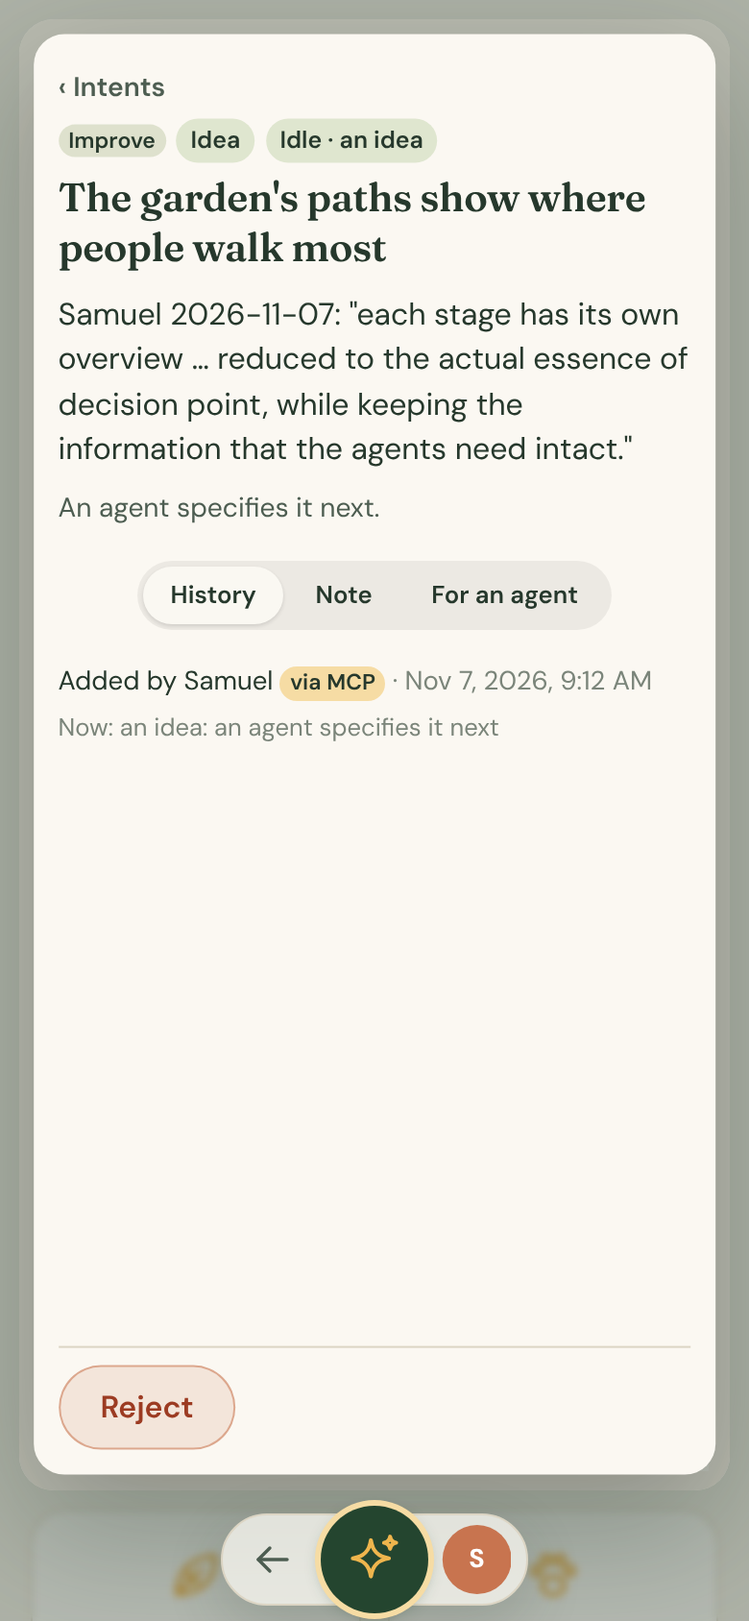
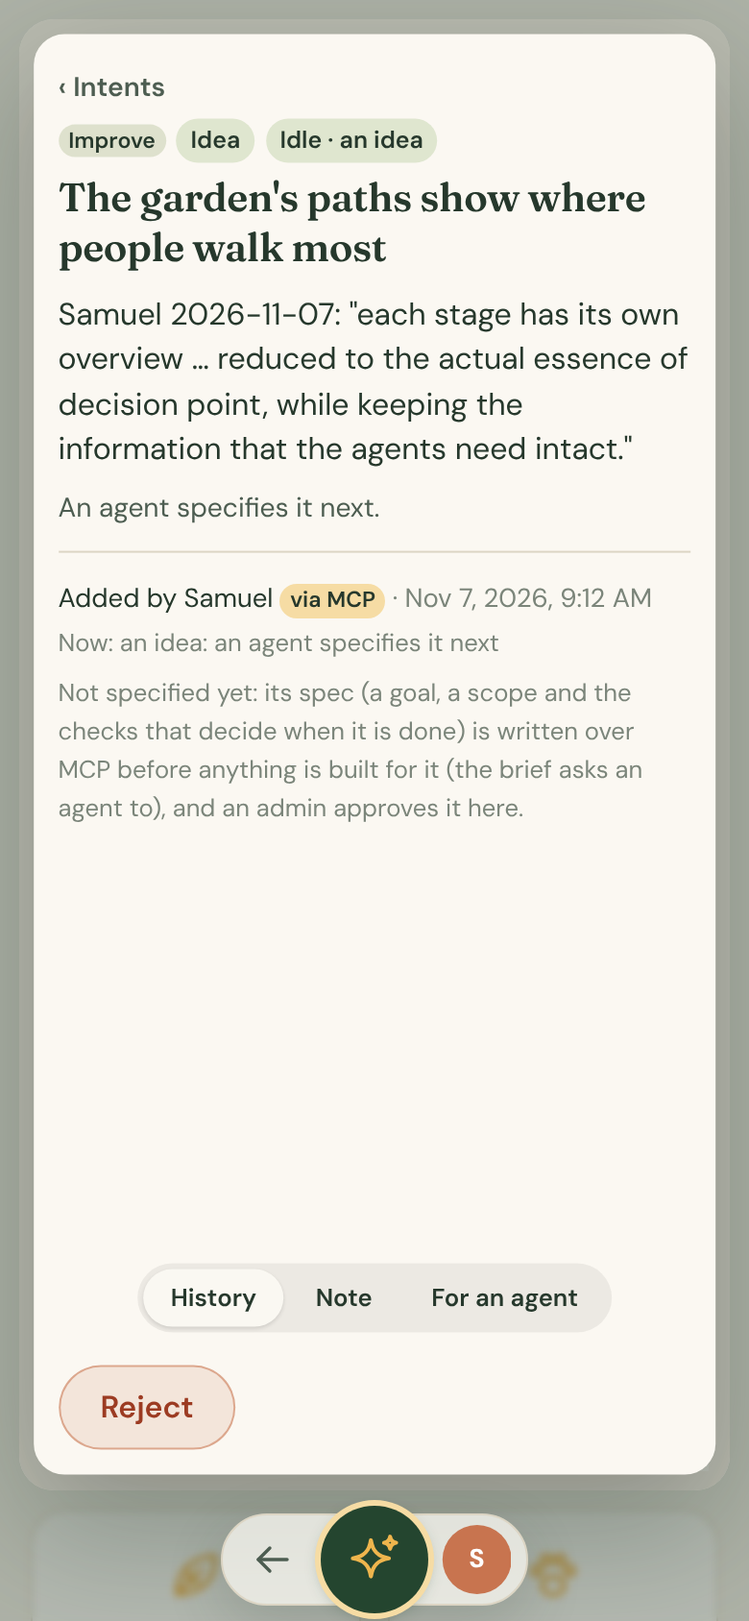
[bb3b0773] Tabs docked above the decision, checks read for a person, asset upgrades shot
Samuel's look at the shots (2026-11-07, through the orchestrator):
- The tab bar is docked to the bottom, right above the decision, at every width; the top
  stays and the open tab's content scrolls between them (play/SPEC.md §4.12 says so).
- The Checks tab is a card per check: its statement, Passed / Not yet / Failed with its
  reason in a line, and when; how it was checked (how and by, run, output, where) folds
  behind "How it was checked". Steps read "First, what it removes" / "Then, what it
  delivers"; the top says "Checks passed: n of m required".
- Fixtures and shots for asset upgrades at Proposal (Olive v3, the delivery van v3),
  drawn in the asset box from play's own files (read-only routes with the token).

Intent: bb3b0773-b4f4-4128-bcc1-b076674e3531

Claude-Session: https://claude.ai/code/session_01E9zxn5HXsSoeteAwvHhhFo

diff --git a/play/site/src/lib/site/intents/IntentDetail.svelte b/play/site/src/lib/site/intents/IntentDetail.svelte
@@ -108,24 +108,39 @@
 			copyError = 'The brief could not be copied here: select it and copy it by hand.';
 		}
 	}
+	/** a failed check's reason in one line: the first line of its evidence that is not a command, plainly */
+	const failLine = (e: string) => {
+		const line = (e ?? '').replace(/\u001b\[[0-9;]*m/g, '').split('\n').map((l) => l.trim()).find((l) => l && !l.startsWith('$') && !/^exit \d/.test(l)) ?? '';
+		return line.length > 140 ? `${line.slice(0, 140)}…` : line;
+	};
 	const refused = $derived(error || copyError || briefError);
 </script>
 
-{#snippet chips(list: { id: string; must: boolean; state: 'pass' | 'fail' | 'none' }[])}
-	<span class="chips">{#each list as c (c.id)}<span class="chk" class:pass={c.state === 'pass'} class:fail={c.state === 'fail'} class:nice={!c.must} title={c.must ? 'must' : 'nice to have'}>{c.state === 'pass' ? '✓' : c.state === 'fail' ? '✗' : '·'} {c.id}</span>{/each}</span>
+{#snippet chips(list: { id: string; must: boolean; state: 'pass' | 'fail' | 'none'; text?: string }[])}
+	<span class="chips">{#each list as c (c.id)}<span class="chk" class:pass={c.state === 'pass'} class:fail={c.state === 'fail'} class:nice={!c.must} title="{c.text ?? c.id}: {c.state === 'pass' ? 'passed' : c.state === 'fail' ? 'failed' : 'not yet'}{c.must ? '' : ' (nice to have)'}">{c.state === 'pass' ? '✓' : c.state === 'fail' ? '✗' : '·'} {c.id}</span>{/each}</span>
 {/snippet}
 
+<!-- a check, for a person (Samuel 2026-11-07: "the audience is always a human, never a tech guy"): its statement and its
+     result in plain words; how it was checked (its how and by, its run, the tool's output, where it ran) folded away -->
 {#snippet checkList(list: Check[])}
 	<ol class="checks">
 		{#each list as c (c.id)}
 			{@const r = i.results?.[c.id]}
 			<li class:pass={r?.pass === true} class:fail={r?.pass === false}>
-				<span class="mark" title={r ? (r.pass ? 'Passed' : 'Failed') : 'No result yet'}>{r ? (r.pass ? '✓' : '✗') : '·'}</span>
+				<span class="mark" aria-hidden="true">{r ? (r.pass ? '✓' : '✗') : '·'}</span>
 				<div class="what">
-					<p><span class="cid">{c.id}</span> {c.check}{#if !c.must}{' '}<span class="pill nice" title="Nice to have: it does not hold the proposal back">nice</span>{/if}</p>
-					<p class="muted small"><span class="how">{c.how}</span> · {c.by}</p>
-					{#if c.run}<code class="run" title="Its run: the command that decides it in avenBOX, and on main once merged">{c.run}</code>{/if}
-					{#if r}<p class="evidence small"><span class="where" class:main={r.where === 'main'} title={r.where === 'main' ? 'Run on main after the merge' : 'Run in avenBOX'}>{whereOf(r)}</span>{' '}{r.evidence}{#if r.by}{' '}<span class="muted">· {r.by}, {shortWhen(r.at)}</span>{/if}</p>{/if}
+					<p class="statement">{c.check}</p>
+					<p class="result">
+						{#if !r}<strong>Not yet</strong>{:else if r.pass}<strong>Passed</strong>{:else}<strong>Failed</strong>{#if failLine(r.evidence)}: {failLine(r.evidence)}{/if}{/if}
+						{#if r}<span class="muted"> · {shortWhen(r.at)}</span>{/if}
+						<span class="muted"> · {c.must ? 'must pass' : 'nice to have'}</span>
+					</p>
+					<details class="how-checked">
+						<summary>How it was checked</summary>
+						<p class="small"><span class="cid">{c.id}</span> <span class="how">{c.how}</span> · {c.by}</p>
+						{#if c.run}<code class="run" title="Its run: the command that decides it in avenBOX, and on main once merged">{c.run}</code>{/if}
+						{#if r}<p class="evidence small"><span class="where" class:main={r.where === 'main'} title={r.where === 'main' ? 'Run on main after the merge' : 'Run in avenBOX'}>{whereOf(r)}</span>{' '}{r.evidence}{#if r.by}{' '}<span class="muted">· {r.by}, {shortWhen(r.at)}</span>{/if}</p>{/if}
+					</details>
 				</div>
 			</li>
 		{/each}
@@ -155,7 +170,7 @@
 				{:else if p.part === 'deps'}
 					<p class="row"><span class="label">Depends on</span> {#each p.deps as dep, j (dep.id)}{j ? ', ' : ''}<button class="link" onclick={() => onopenintent(dep.id)}>{dep.title}</button> <span class="muted">({STAGE_NAME[dep.stage]})</span>{/each}{#if p.held}{' '}<span class="held-tag">Held</span>{/if}</p>
 				{:else if p.part === 'progress'}
-					<p class="row"><span class="label">{p.label}</span> <strong>{p.passed} of {p.of}</strong> {@render chips(p.chips)}</p>
+					<p class="row"><span class="label">{p.label}</span> <strong>{p.passed} of {p.of}</strong> required {@render chips(p.chips)}</p>
 				{:else if p.part === 'work'}
 					<p class="row"><span class="label">{p.label}</span>
 						{#if p.pr}<a href="{REPO_URL}/pull/{p.pr}" target="_blank" rel="noopener">{p.text}</a>
@@ -170,14 +185,6 @@
 			{/each}
 		</section>
 
-		<!-- the rest, kept whole in tabs; a tab with nothing in it is not shown -->
-		<div class="band">
-			<div class="tabs" role="tablist" aria-label="More of it">
-				{#each d.tabs as t (t)}
-					<button role="tab" aria-selected={current === t} class:on={current === t} onclick={() => (tab = t)}>{TAB_NAME[t]}</button>
-				{/each}
-			</div>
-		</div>
 
 		<div class="panel" role="tabpanel" aria-label={TAB_NAME[current]}>
 			{#if current === 'spec' && i.spec}
@@ -186,18 +193,18 @@
 				<div class="md">{@html md(i.spec.goal)}</div>
 				<h3>Scope</h3>
 				<div class="md">{@html md(i.spec.scope)}</div>
-				<h3>Reduce <span class="muted small">what it removes, simplifies or compacts first</span></h3>
+				<h3>First, what it removes</h3>
 				{#if i.spec.checks.some((c) => c.step === 'reduce')}<p class="small">{i.spec.checks.filter((c) => c.step === 'reduce').map((c) => c.id).join(', ')}: in Checks.</p>
 				{:else if i.spec.nothing_to_reduce}<p class="small"><span class="muted">Nothing to reduce:</span> {i.spec.nothing_to_reduce}</p>
 				{:else}<p class="muted small">Specified before the reduce step: none named.</p>{/if}
-				<h3>MVP</h3>
+				<h3>Then, what it delivers</h3>
 				<p class="small">{i.spec.checks.filter((c) => c.step !== 'reduce').map((c) => c.id).join(', ') || 'No checks.'}{i.spec.checks.some((c) => c.step !== 'reduce') ? ': in Checks.' : ''}</p>
 			{:else if current === 'checks' && i.spec}
 				{@const reduce = i.spec.checks.filter((c) => c.step === 'reduce')}
 				{@const mvp = i.spec.checks.filter((c) => c.step !== 'reduce')}
 				<p class="muted small">{i.stage === 'specify' ? 'What will be checked, once approved.' : 'Once every must check passes, it moves to Proposal by itself.'}</p>
-				{#if reduce.length}<h3>Reduce</h3>{@render checkList(reduce)}{/if}
-				{#if mvp.length}<h3>MVP</h3>{@render checkList(mvp)}{/if}
+				{#if reduce.length}<h3>First, what it removes</h3>{@render checkList(reduce)}{/if}
+				{#if mvp.length}<h3>Then, what it delivers</h3>{@render checkList(mvp)}{/if}
 			{:else if current === 'changes'}
 				{#if !i.work && i.pull_request}<p class="small">Code: <a href="{REPO_URL}/pull/{i.pull_request}" target="_blank" rel="noopener">pull request #{i.pull_request}</a> <span class="muted">· {i.stage === 'proposal' ? 'Accept merges it into main and ships it' : i.stage === 'ship' ? (i.ship?.pending ? 'in Ship, merged in its turn' : 'merged, on its way to production') : i.stage === 'accepted' ? 'in production' : 'named by its agent'}</span></p>
 				{:else if i.work}
@@ -289,6 +296,14 @@
 				<button class="btn small ghost" onclick={() => copyBrief(briefText)}>{copied ? 'Copied' : 'Copy the brief'}</button>
 			{/if}
 		</div>
+		<!-- the rest, kept whole in tabs; a tab with nothing in it is not shown -->
+		<div class="band">
+			<div class="tabs" role="tablist" aria-label="More of it">
+				{#each d.tabs as t (t)}
+					<button role="tab" aria-selected={current === t} class:on={current === t} onclick={() => (tab = t)}>{TAB_NAME[t]}</button>
+				{/each}
+			</div>
+		</div>
 	</div>
 
 	<!-- a refused decision's reason at the foot, right above the buttons (Samuel 2026-11-06) -->
@@ -313,7 +328,7 @@
 	/* an intent opened: a panel in the middle of the screen over a scrim; its header and its decision stay, what is
 	   between them scrolls, the tabs sticky at its top */
 	.scrim { all: unset; position: absolute; inset: 0; z-index: 9; border-radius: inherit; background: rgb(38 56 44 / 0.28); }
-	.review { position: absolute; z-index: 10; top: 50%; left: 50%; transform: translate(-50%, -50%); width: min(48rem, calc(100% - 1rem)); max-height: calc(100% - 1rem); box-sizing: border-box; background: var(--bg, #fbf8f2); border-radius: 16px; box-shadow: 0 20px 60px rgb(0 0 0 / 0.25); display: flex; flex-direction: column; gap: 0.5rem; padding: 1rem 1.1rem 0.8rem; overflow: hidden; }
+	.review { position: absolute; z-index: 10; top: 50%; left: 50%; transform: translate(-50%, -50%); width: min(48rem, calc(100% - 1rem)); height: min(46rem, calc(100% - 1rem)); box-sizing: border-box; background: var(--bg, #fbf8f2); border-radius: 16px; box-shadow: 0 20px 60px rgb(0 0 0 / 0.25); display: flex; flex-direction: column; gap: 0.5rem; padding: 1rem 1.1rem 0.8rem; overflow: hidden; }
 	@media (max-width: 520px) { .review { padding: 0.8rem 0.8rem 0.7rem; height: calc(100% - 1rem); } }
 	.review-head { flex: 0 0 auto; min-width: 0; }
 	.review-head h2 { margin: 0; font-size: 1.3rem; line-height: 1.25; }
@@ -324,7 +339,12 @@
 	.tags { margin: 0 0 0.3rem; display: flex; gap: 0.35rem; align-items: center; white-space: nowrap; min-width: 0; }
 	.tags [data-sub] { min-width: 0; overflow: hidden; text-overflow: ellipsis; }
 	.tags [data-sub]::first-letter { text-transform: uppercase; }
-	.item-body { flex: 1 1 auto; min-height: 0; overflow-y: auto; overscroll-behavior: contain; }
+	/* between the header and the foot: the top stays, the tab's content scrolls, and the tabs are docked at the bottom
+	   right above the decision, always in sight (Samuel 2026-11-07: "bottom align above the action button areas the
+	   tab section, so it's always like fixed to the bottom area") */
+	.item-body { flex: 1 1 auto; min-height: 0; display: flex; flex-direction: column; }
+	.item-body > .top { flex: 0 1 auto; max-height: 55%; overflow-y: auto; overscroll-behavior: contain; }
+	.panel { flex: 1 1 auto; min-height: 5rem; overflow-y: auto; overscroll-behavior: contain; border-top: 1px solid var(--line, #dcd5c4); }
 
 	/* the top: the stage's parts, short lines, nothing an agent alone needs */
 	.top { display: flex; flex-direction: column; gap: 0.55rem; padding: 0.15rem 0 0.8rem; font-size: 0.95rem; line-height: 1.45; }
@@ -353,13 +373,13 @@
 
 	/* the tabs' band, sticky at the top of what scrolls, in the aside's style (play/SPEC.md §4.15 One aside); on a
 	   narrow screen it scrolls sideways */
-	.band { position: sticky; top: 0; z-index: 1; margin: 0 -0.2rem; padding: 0.3rem 0.2rem 0.45rem; background: var(--bg, #fbf8f2); overflow-x: auto; scrollbar-width: none; text-align: center; }
+	.band { flex: 0 0 auto; margin: 0 -0.2rem; padding: 0.45rem 0.2rem 0.1rem; background: var(--bg, #fbf8f2); overflow-x: auto; scrollbar-width: none; text-align: center; }
 	.band::-webkit-scrollbar { display: none; }
 	.tabs { display: inline-flex; gap: 2px; padding: 3px; border-radius: 999px; background: rgb(0 0 0 / 0.06); white-space: nowrap; }
 	.tabs button { font: inherit; color: inherit; border: 0; cursor: pointer; flex: 0 0 auto; padding: 0.32rem 0.9rem; border-radius: 999px; background: none; font-size: 0.8rem; font-weight: 600; }
 	.tabs button.on { background: var(--paper, #fff); box-shadow: 0 1px 2px rgb(0 0 0 / 0.12); }
 	.tabs button:focus-visible { outline: 2px solid var(--ink, #222); outline-offset: -2px; }
-	.panel { padding: 0.4rem 0 0.6rem; font-size: 0.9rem; }
+	.panel { padding: 0.6rem 0 0.6rem; font-size: 0.9rem; }
 	.panel h3 { margin: 0.8rem 0 0.35rem; font-size: 0.95rem; }
 	.panel h3:first-child { margin-top: 0.2rem; }
 	.panel > p { margin: 0 0 0.4rem; }
@@ -429,6 +449,14 @@
 	.checks .what { min-width: 0; flex: 1 1 auto; }
 	.checks .what p { margin: 0; font-size: 0.88rem; overflow-wrap: anywhere; }
 	.checks .what p + p { margin-top: 0.15rem; }
+	.checks .statement { font-size: 0.92rem; line-height: 1.4; }
+	.checks .result { font-size: 0.84rem; }
+	.checks li.pass .result strong { color: var(--brand-green, #24452f); }
+	.checks li.fail .result strong { color: #9c3b22; }
+	.how-checked { margin-top: 0.3rem; font-size: 0.8rem; }
+	.how-checked summary { cursor: pointer; width: fit-content; color: var(--ink-soft, #4d5d51); font-weight: 600; min-height: 1.6rem; display: flex; align-items: center; }
+	.how-checked[open] { padding: 0.4rem 0.5rem; margin-inline: -0.5rem; border-radius: 8px; background: var(--paper, #f6f1e6); }
+	.how-checked p { margin: 0.2rem 0 0; }
 	.cid { font-family: ui-monospace, monospace; font-size: 0.76rem; color: var(--muted, #777); margin-right: 0.15rem; }
 	.how { font-weight: 600; text-transform: uppercase; font-size: 0.7rem; letter-spacing: 0.04em; }
 	.evidence { white-space: pre-line; color: var(--ink-soft, #4d5d51); }
@@ -447,7 +475,7 @@
 	/* the foot: a refused decision's reason, then Reject and the one decision, primary, its reason under it if it is
 	   disabled */
 	.refused { flex: 0 0 auto; margin: 0; padding: 0.45rem 0.7rem; border-radius: 10px; font-size: 0.85rem; line-height: 1.4; max-height: 5.6em; overflow-y: auto; overflow-wrap: anywhere; color: #9c3b22; background: color-mix(in srgb, var(--terracotta, #c8744f) 12%, var(--card, #fff)); border: 1px solid color-mix(in srgb, var(--terracotta, #c8744f) 45%, transparent); }
-	.decide { flex: 0 0 auto; padding: 0.6rem 0 0.1rem; border-top: 1px solid var(--line, #dcd5c4); }
+	.decide { flex: 0 0 auto; padding: 0.5rem 0 0.1rem; }
 	.buttons { display: flex; justify-content: flex-end; align-items: center; gap: 0.5rem; }
 	.decide .btn { min-height: 44px; justify-content: center; }
 	.btn.primary { flex: 0 1 15rem; }

diff --git a/play/site/src/lib/site/intents/fixtures.ts b/play/site/src/lib/site/intents/fixtures.ts
@@ -71,6 +71,13 @@ const STEPS = (red = false) => [
 ];
 const WORK = { kind: 'asset_version', what: 'asset', doc: 'asset:44444444-5555-4666-8777-888888888888', doc_variant: 3, docs: 2, asset_id: '44444444-5555-4666-8777-888888888888', label: 'Olive tree', grp: 'plants', slug: null, version_label: null, number: 4, status: 'proposal', note: 'Its bark furrows with age.', author: 'Samuel', decided_by: null, created: at(11), via: 'mcp' as const };
 
+/** asset upgrades at Proposal, on real accepted versions of play's (their recipes drawn by the shots from play's files):
+ *  the olive's v3 on its v2, and the delivery van's v3 (four paints) on its v2 */
+export const ASSETS = {
[2 lines of base64/hex data omitted]
+} as const;
+
 export const FIXTURES: Record<string, Intent> = {
 	idea: base(1, { title: "The garden's paths show where people walk most", stage: 'idea', sub: { state: 'idle', tag: 'an idea', why: 'an idea: an agent specifies it next' } }),
 	specify: base(2, { stage: 'specify', ...specified, depends_on: [DEP], sub: { state: 'waiting', tag: 'Approve spec', why: 'waits for Approve spec' } }),
@@ -78,7 +85,7 @@ export const FIXTURES: Record<string, Intent> = {
 	'build-held': base(4, { title: "Sandbox 2's pond fills with rain over a season", stage: 'build', ...approved, depends_on: [DEP], held_by: [DEP], sub: { state: 'idle', tag: 'held', why: `held: waits for ${DEP.title}` } }),
 	'build-failed': base(5, { title: 'The Library finds a file by its label', stage: 'build', ...approved, results: res(['c2'], ['c1']), pull_request: 2150, pr_seen: { pr: 2150, draft: false, state: 'open' }, sub: { state: 'failed', tag: 'c1 failed', why: 'c1 failed on its last run' } }),
 	'proposal-code': base(6, { title: 'Members invite a friend with one link', stage: 'proposal', ...approved, results: res(['c1', 'c2', 'c3', 'c4', 'c5']), pull_request: 2150, pr_seen: { pr: 2150, draft: false, state: 'open', mergeable: true }, sub: { state: 'waiting', tag: 'Accept and ship', why: 'waits for Accept and ship' } }),
-	'proposal-work': base(7, { stage: 'proposal', ...approved, title: 'The olive tree\'s bark furrows with age', results: res(['c1', 'c2', 'c3', 'c4', 'c5']), work: WORK, sub: { state: 'waiting', tag: 'Accept', why: 'waits for Accept' } }),
+	'proposal-work': base(7, { stage: 'proposal', ...approved, spec: { ...SPEC, goal: 'The olive tree\'s bark furrows and twists with age, as old Picual trunks in Jaén do.' }, title: 'The olive tree\'s bark furrows with age', results: res(['c1', 'c2', 'c3', 'c4', 'c5']), work: WORK, sub: { state: 'waiting', tag: 'Accept', why: 'waits for Accept' } }),
 	'proposal-red': base(8, { title: 'Ship merges main into every open pull request',
 		stage: 'proposal', ...approved, results: res(['c1', 'c2', 'c3', 'c4', 'c5']), pull_request: 2150, decided_by: 'Samuel', decided_at: at(12),
 		ship: { pr: 2150, head: HEAD, merge: MERGE, by: 'Samuel', round: 1, started: at(12), steps: STEPS(true), report: { step: 'Release', why: 'production did not fast-forward to the merge', link: 'https://github.com/MyAvenCEO/maiacity/actions/runs/2', log: `error: ${MERGE} is not a descendant of production\n##[error]Process completed with exit code 1.`, at: at(12) }, outcome: 'red', again: 'release' },
@@ -91,5 +98,7 @@ export const FIXTURES: Record<string, Intent> = {
 		steps: [{ at: at(11), by: 'Samuel', via: 'mcp', from: 'build', to: 'specify', reason: 'the spec named the wrong file' }],
 		auto: {}
 	}),
-	archived: base(11, { title: 'A second board for ideas only', stage: 'archived', ...specified, decided_by: 'Samuel', decided_at: at(12) })
+	archived: base(11, { title: 'A second board for ideas only', stage: 'archived', ...specified, decided_by: 'Samuel', decided_at: at(12) }),
+	'proposal-plant': base(12, { stage: 'proposal', ...approved, spec: { ...SPEC, goal: 'The olive grows to the size measured Picual trees have at each age: 3.2 m high at eight years, not 2.6 m.' }, title: "The olive grows to its measured size sooner", results: res(['c1', 'c2', 'c3', 'c4', 'c5']), work: { ...WORK, label: 'Olive', grp: 'plants', number: 3, docs: 1, asset_id: '8323f07d-60c6-5d46-8c23-644e5b1efc20', doc: 'asset:8323f07d-60c6-5d46-8c23-644e5b1efc20', note: 'A sizing fix to v2: the scaffolds and branches grow out sooner, so an 8-year tree is 3.2 m high, as measured Picual trees are.' }, sub: { state: 'waiting', tag: 'Accept', why: 'waits for Accept' } }),
+	'proposal-machine': base(13, { stage: 'proposal', ...approved, spec: { ...SPEC, goal: 'The delivery van looks as it did, every paint, but draws with 3 materials instead of 8, so a city jam stays smooth.' }, title: 'The delivery van draws with far fewer materials', results: res(['c1', 'c2', 'c3', 'c4', 'c5']), work: { ...WORK, label: 'Delivery van', grp: 'machines', number: 3, docs: 1, asset_id: '53d1af5a-bbcf-4eba-9fe0-3a147baedd34', doc: 'asset:53d1af5a-bbcf-4eba-9fe0-3a147baedd34', note: 'The same van and every paint, drawn with 3 materials instead of 8, so a jam of hundreds costs far fewer draw calls.' }, sub: { state: 'waiting', tag: 'Accept', why: 'waits for Accept' } })
 };

diff --git a/play/site/scripts/intent-shots.ts b/play/site/scripts/intent-shots.ts
@@ -3,14 +3,33 @@
  * intent at each stage (src/lib/site/intents/fixtures.ts), play's API answered by the fixtures, at 390×844 and 1440×900.
  *
  *   bun run dev &                                  # the dev server, http://localhost:5173
- *   bun scripts/intent-shots.ts [out dir]          # 14 PNGs, <stage>-<width>.png
+ *   bun scripts/intent-shots.ts [out dir]          # <stage>-<width>.png, and each asset upgrade's review drawn
+ *
+ * The asset upgrades (fixtures.ts ASSETS) are drawn from play's own files: the catalog and the files are read from
+ * play.maia.city with PLAY_MCP_TOKEN (its read-only routes, the header sent to play only).
  */
 import { chromium } from 'playwright';
-import { BRIEF, FIXTURES } from '../src/lib/site/intents/fixtures';
+import { ASSETS, BRIEF, FIXTURES } from '../src/lib/site/intents/fixtures';
 
 const BASE = process.env.SITE ?? 'http://localhost:5173';
 const OUT = process.argv[2] ?? '../shots/bb3b0773-detail';
-const STAGES = ['idea', 'specify', 'build', 'proposal-code', 'proposal-work', 'ship', 'accepted'];
+const ONLY = process.env.ONLY;
+const STAGES = ['idea', 'specify', 'build', 'proposal-code', 'proposal-work', 'ship', 'accepted', ...Object.keys(ASSETS)];
+const PLAY = 'https://play.maia.city';
+const TOKEN = process.env.PLAY_MCP_TOKEN;
+const fromPlay = async (path: string) => {
+	if (!TOKEN) throw new Error('PLAY_MCP_TOKEN is not set: the asset upgrades are drawn from play');
+	return fetch(`${PLAY}/api${path}`, { headers: { authorization: `Bearer ${TOKEN}` } });
+};
+const catalogRows: any[] = await (await fromPlay('/catalog')).json();
+const rowsOf = (hashes: readonly string[]) => hashes.map((h, n) => ({ ...catalogRows.find((r) => r.hash === h), first: n === 0 }));
+/** an asset upgrade's review as play's /api/intents/<id> gives it: its builds, its source and its base's */
+const reviewOf = (stage: string) => {
+	const a = (ASSETS as any)[stage];
+	if (!a) return null;
+	const w = FIXTURES[stage].work!;
+	return { doc: { id: a.asset, kind: 'asset', what: 'asset', label: w.label, open: null }, seedNumber: a.base.number, moved: false, changes: [], edits: [], id: FIXTURES[stage].id, source: a.source, recipe: a.recipes[0], baseVersion: a.base, builds: rowsOf(a.recipes) };
+};
 const SIZES = [
 	{ width: 390, height: 844 },
 	{ width: 1440, height: 900 }
@@ -22,20 +41,25 @@ const browser = await chromium.launch();
 for (const size of SIZES) {
 	const page = await browser.newPage({ viewport: size, deviceScaleFactor: 2 });
 	await page.addInitScript(() => localStorage.setItem('play:intents:folded', '{}'));
-	await page.route('**/api/**', (route) => {
+	await page.route('**/api/**', async (route) => {
 		const path = new URL(route.request().url()).pathname.replace(/^\/api/, '');
 		const one = path.match(/^\/intents\/([0-9a-f-]{36})$/);
 		const json = (body: unknown, status = 200) => route.fulfill({ status, contentType: 'application/json', body: JSON.stringify(body) });
 		if (path === '/me') return json(ME);
+		if (path === '/catalog') return json(catalogRows);
+		if (/^\/files\/[0-9a-f]{64}$/.test(path)) {
+			const r = await fromPlay(path);
+			return route.fulfill({ status: r.status, contentType: r.headers.get('content-type') ?? 'application/octet-stream', body: Buffer.from(await r.arrayBuffer()) });
+		}
 		if (path === '/intents') return json(all);
 		if (one) {
 			const i = all.find((x) => x.id === one[1]);
-			return i ? json({ ...i, brief: ['accepted', 'archived', 'ship'].includes(i.stage) ? null : BRIEF, review: null }) : json({ error: 'not found' }, 404);
+			return i ? json({ ...i, brief: ['accepted', 'archived', 'ship'].includes(i.stage) ? null : BRIEF, review: reviewOf(Object.keys(FIXTURES).find((k) => FIXTURES[k].id === i.id)!) }) : json({ error: 'not found' }, 404);
 		}
 		if (path.startsWith('/docs')) return json([]);
 		return json({ error: 'not in the fixtures' }, 404);
 	});
-	for (const stage of STAGES) {
+	for (const stage of STAGES.filter((x) => !ONLY || x === ONLY)) {
 		const i = FIXTURES[stage];
 		// the board opened, every column open, the intent's card tapped
 		await page.goto(`${BASE}/intents/`);
@@ -43,6 +67,21 @@ for (const size of SIZES) {
 		await page.locator('.item-review').waitFor();
 		await page.waitForTimeout(400);
 		await page.screenshot({ path: `${OUT}/${stage}-${size.width}.png` });
+		if (!(ASSETS as any)[stage]) continue;
+		// its work opened from the Changes tab: the asset built in the asset box, as the board draws it
+		await page.locator('.linked .open').click();
+		await page.locator('.review:not(.item-review) canvas').first().waitFor({ timeout: 90000 });
+		// drawn once its build is done (a grown tree takes a while in a headless browser), then a breath for its light
+		await page.waitForTimeout(1500);
+		// built and prepared for display: no "Building …" or "Preparing …" note left, polled (it comes and goes)
+		const busy = page.getByText(/^(Building|Preparing) .*…$/);
+		for (let quiet = 0, t = Date.now(); quiet < 3 && Date.now() - t < 300000; ) {
+			await page.waitForTimeout(1000);
+			quiet = (await busy.count()) ? 0 : quiet + 1;
+		}
+		if (await busy.count()) console.log(`${stage} ${size.width}: still busy after 5 minutes: ${await busy.first().textContent()}`);
+		await page.waitForTimeout(3000);
+		await page.screenshot({ path: `${OUT}/${stage}-review-${size.width}.png` });
 	}
 	await page.close();
 }

diff --git a/play/site/src/lib/site/intents/detail.ts b/play/site/src/lib/site/intents/detail.ts
@@ -51,7 +51,7 @@ export const notLive = (i: Intent) => (i.ship?.live === false && i.ship.commit ?
 // ---- what goes on top
 
 /** a check as a chip: its id and its last result, nothing else */
-export type Chip = { id: string; must: boolean; state: 'pass' | 'fail' | 'none' };
+export type Chip = { id: string; must: boolean; state: 'pass' | 'fail' | 'none'; text: string };
 /** one part of the top, drawn by ./IntentDetail.svelte in the order given */
 export type Part =
 	/** what is wanted (Idea): the note's first lines */
@@ -130,7 +130,7 @@ const wantOf = (note: string) => {
 	return first ? clip(plain(first), 280) : '';
 };
 
-const chipsOf = (i: Intent): Chip[] => (i.spec?.checks ?? []).map((c) => ({ id: c.id, must: c.must, state: i.results?.[c.id] ? (i.results[c.id].pass ? 'pass' : 'fail') : 'none' }));
+const chipsOf = (i: Intent): Chip[] => (i.spec?.checks ?? []).map((c) => ({ id: c.id, must: c.must, text: headline(c.check), state: i.results?.[c.id] ? (i.results[c.id].pass ? 'pass' : 'fail') : 'none' }));
 const progressOf = (i: Intent, label: string): Part | null => {
 	const musts = i.spec?.checks.filter((c) => c.must) ?? [];
 	if (!i.spec?.checks.length) return null;
@@ -185,13 +185,13 @@ export function detailOf(i: Intent, opts: { brief?: string | null } = {}): Detai
 			break;
 		}
 		case 'build':
-			top.push(progressOf(i, 'Musts passed'), workOf(i, 'Built in') ?? { part: 'work', label: 'Built in', text: 'no pull request or work of play’s yet' }, held, failed);
+			top.push(progressOf(i, 'Checks passed'), workOf(i, 'Built in') ?? { part: 'work', label: 'Built in', text: 'no pull request or work of play’s yet' }, held, failed);
 			reject = true;
 			tab = 'checks';
 			break;
 		case 'proposal': {
 			const rep = i.ship?.outcome === 'red' ? i.ship.report : null;
-			top.push(goalOf(i), progressOf(i, 'Every must passed'), workOf(i, 'What changes'), rep ? { part: 'reason', tone: 'failed', text: `Not shipped: red at ${rep.step}. ${rep.why}` } : failed, rep ? null : held);
+			top.push(goalOf(i), progressOf(i, 'Checks passed'), workOf(i, 'What changes'), rep ? { part: 'reason', tone: 'failed', text: `Not shipped: red at ${rep.step}. ${rep.why}` } : failed, rep ? null : held);
 			const label = isCode(i) ? (shipsAgain(i) ? 'Ship again' : 'Accept and ship') : 'Accept';
 			const ok = decidable(i);
 			decision = {

diff --git a/play/SPEC.md b/play/SPEC.md
@@ -880,8 +880,11 @@ doc_variants.intent_id → intents        -- the intent an intent variant was pr
   from the board (`IntentsBoard.svelte`), and what it shows at each stage is one pure, tested function's, `detailOf`
   (`detail.ts`, `detail.test.ts`): **on top** only what a person needs at that moment, never a run command, a hash, a
   check's evidence or the brief; at the foot **one primary decision**, always in sight, its reason under it while it may
-  not be taken, Reject beside it where an intent may be rejected; between them **tabs**, sticky under the header and
-  scrolling sideways on a phone, in the aside's style (§4.15 *One aside*), holding everything else whole:
+  not be taken, Reject beside it where an intent may be rejected; right above it the **tabs**, docked to the bottom and
+  always in sight at every width (Samuel 2026-11-07: *"bottom align above the action button areas the tab section, so
+  it's always like fixed to the bottom area"*; it replaces the spec's "sticky under the header"), scrolling sideways on a
+  phone, in the aside's style (§4.15 *One aside*), the top staying where it is and the open tab's content scrolling
+  between them, holding everything else whole:
 
   | Stage | On top | Decision |
   |---|---|---|
@@ -893,7 +896,10 @@ doc_variants.intent_id → intents        -- the intent an intent variant was pr
   | **Accepted / Archived** | what shipped (the version, or the pull request merged and in production) and when, or why it ended | Reopen |
 
   The tabs, in this order, a tab with nothing in it not shown: **Spec** (goal, scope, reduce and MVP), **Checks** (each
-  with its run, result, evidence, where and when), **Changes** (its work and its review, its pull request), **Ship**
+  check a card for a person, Samuel 2026-11-07: *"the audience is always a human, never a tech guy"*: its statement and
+  its result in plain words, Passed, Not yet, or Failed with its reason in a line, and when; how it was checked, its how
+  and by, its run, the tool's output and where it ran, folded behind *How it was checked*, closed at first; its two steps
+  headed *First, what it removes* and *Then, what it delivers*), **Changes** (its work and its review, its pull request), **Ship**
   (steps, report, log), **Dependencies**, **History** (who and when, steps back, auto decisions, its declared work),
   **Note** (whole), **For an agent** (the brief and Copy). Each stage opens on its own tab first (Idea For an agent,
   Specify Spec, Build Checks, Proposal Changes, Ship Ship, Accepted History).
